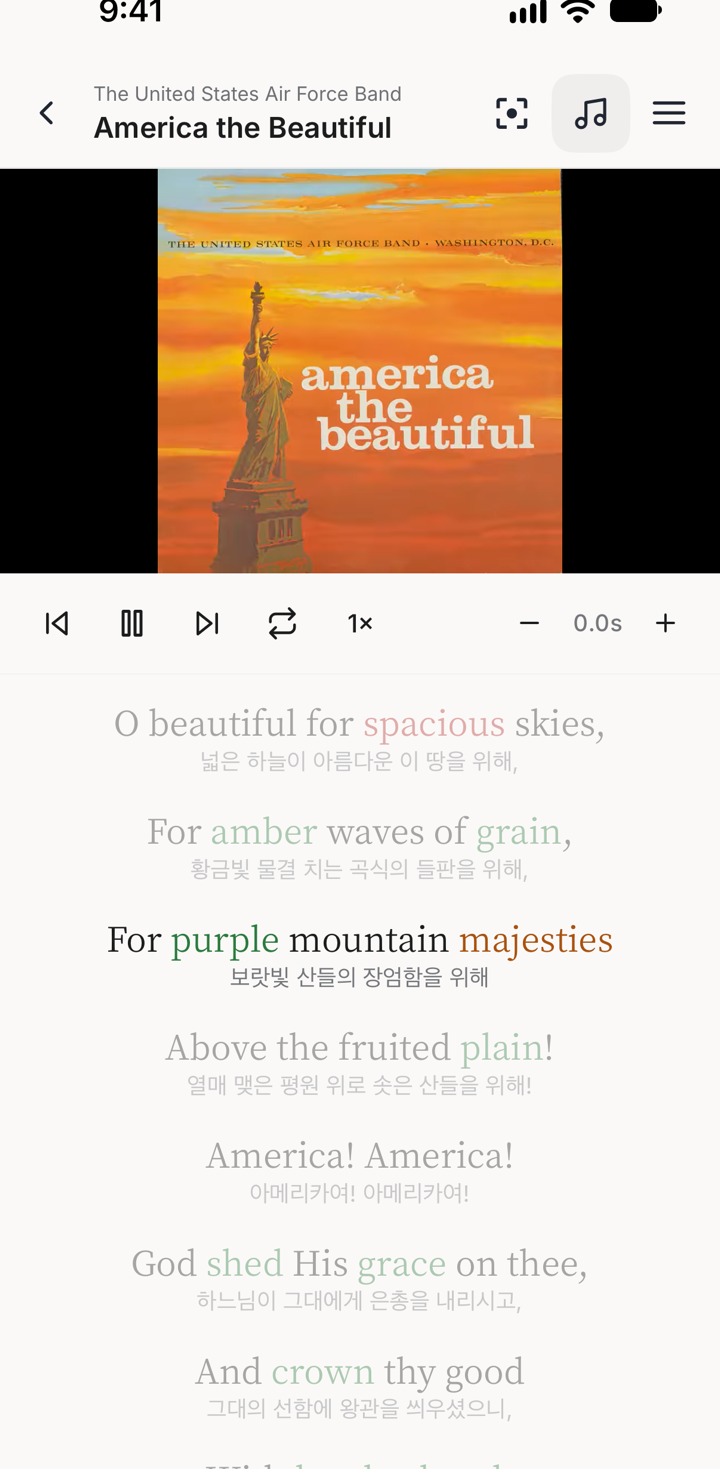
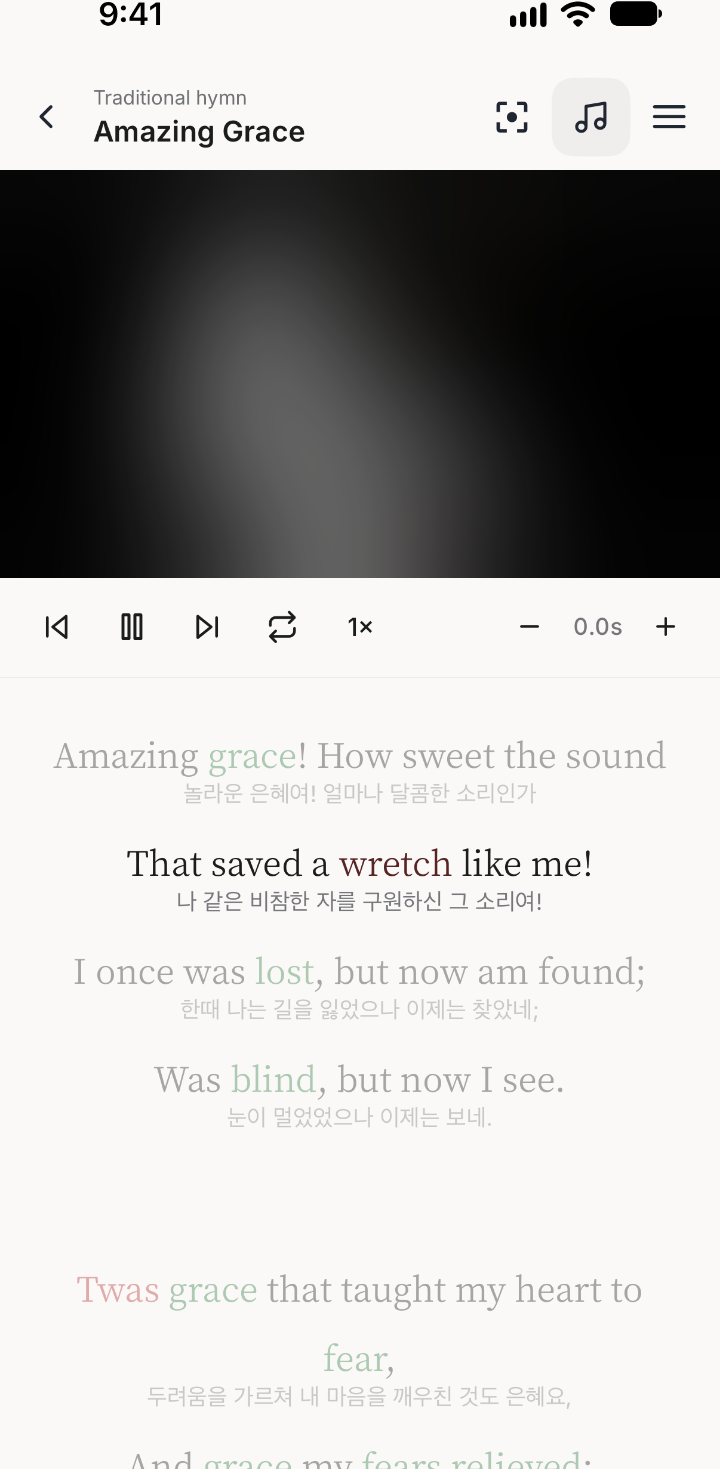
Songs screenshot: Amazing Grace with the video blurred

diff --git a/index.html b/index.html
@@ -198,7 +198,7 @@
           <li class="screen">
             <button class="screen__shot" type="button" data-lightbox aria-label="Enlarge the song screenshot">
               <img src="./assets/screens/songs.png" width="720" height="1469" loading="lazy"
-                   alt="America the Beautiful playing in the song reader: the line being sung is lit, each English line has its Korean translation right under it." />
+                   alt="Amazing Grace playing in the song reader: the line being sung is lit, each English line has its Korean translation right under it." />
             </button>
             <h3>Songs, line by line</h3>
             <p>Find a song and read along with its music video. Each line's translation sits right under it, and every word is one tap away.</p>
